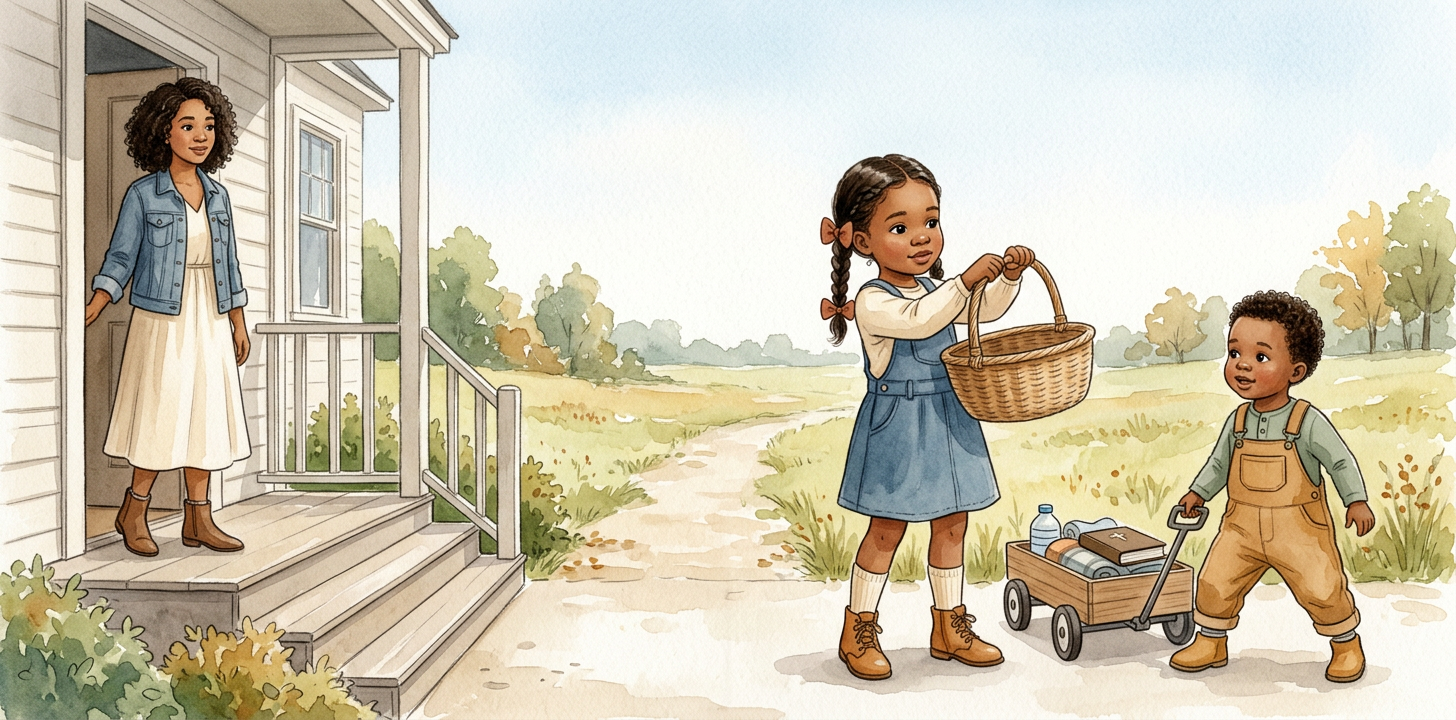
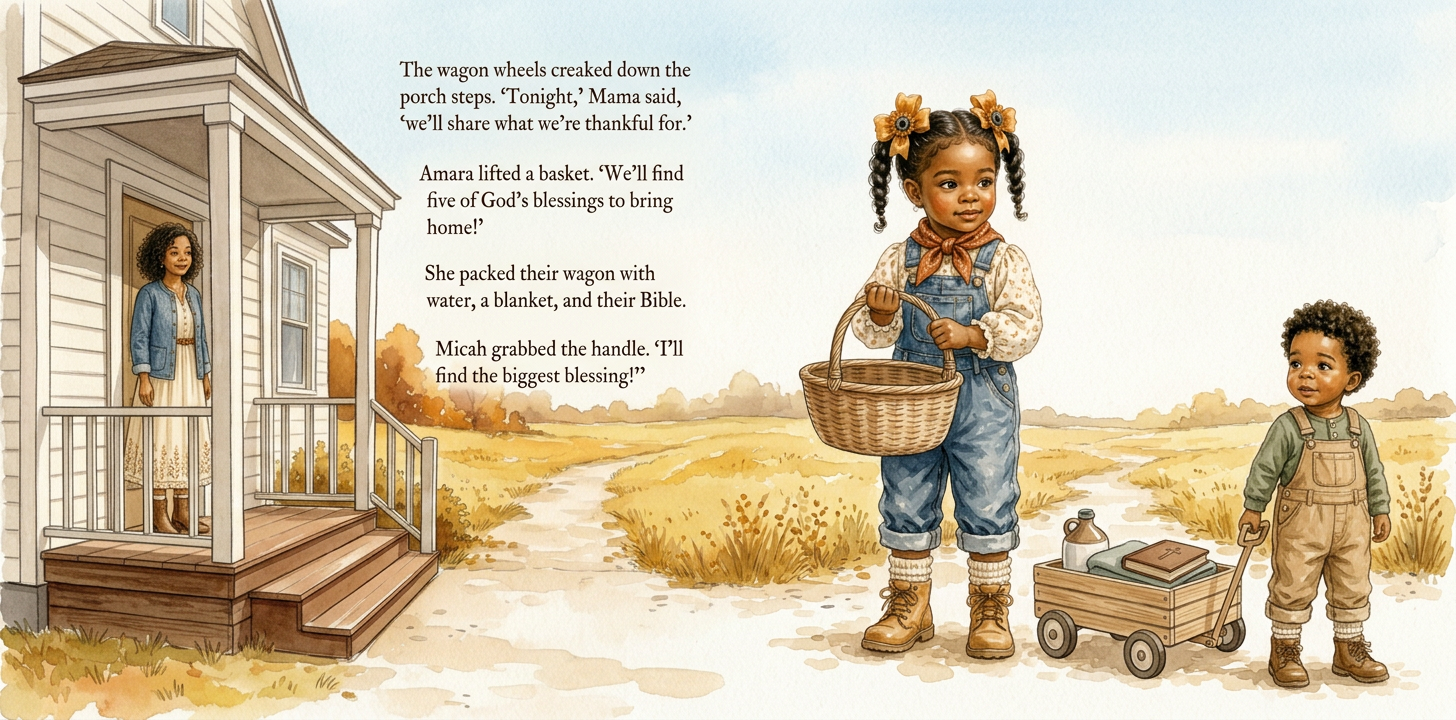
Approve Unit 1 + Unit 12 legacy spreads with integrated verbatim text
- Both spreads QA-passed: character-for-character text match to adapter
- Legacy look locked in renders (sunflower bows + bandana, no scarf on Micah)
- Canon kit sheets added; canon decisions recorded
- Porch matches house sheet; wagon/props match canon (jug, sage blanket, cross Bible)

diff --git a/CATALOG.md b/CATALOG.md
@@ -1,7 +1,9 @@
 # Asset Catalog
 
-18 unique images. All watercolor-on-cream storybook style, warm autumn palette.
-Two exact duplicates were removed (verified by file hash).
+18 character/collection images + 3 canon sheets. All watercolor-on-cream storybook
+style, warm autumn palette. Two exact duplicates were removed (verified by file hash).
+
+Locked decisions: legacy look + integrated text — see `docs/canon-decisions.md`.
 
 ## Amara (`assets/amara/`)
 
@@ -19,8 +21,8 @@ Two exact duplicates were removed (verified by file hash).
 | File | Size | Was | Description |
 |---|---|---|---|
 | `micah-01-turnaround-bucket.png` | 1402×1122 | `A003 …` | 4-view turnaround + face closeup, wooden bucket |
-| `micah-02-face-closeup-scarf.png` | 1122×1402 | `A006 …` | Face closeup, cream knit scarf |
-| `micah-03-fullbody-scarf.png` | 1122×1402 | `A007 …` | Full-body, rust overalls, cream scarf |
+| `micah-02-face-closeup-scarf.png` | 1122×1402 | `A006 …` | Face closeup (legacy scarf study — scarf NOT canon) |
+| `micah-03-fullbody-scarf.png` | 1122×1402 | `A007 …` | Full-body (legacy scarf study — scarf NOT canon) |
 | `micah-scripture-philippians-4-13.png` | 1122×1402 | `… Jul 19 …07_30_24 …` | "I can do all things through Christ" print |
 
 ## Mama (`assets/mama/`)
@@ -46,6 +48,14 @@ Two exact duplicates were removed (verified by file hash).
 | `assets/family/family-lineup.png` | 1681×935 | `… 06_13_15 …` | Papa / Mama / Amara / Micah scale lineup |
 | `assets/collection/title-gathering-meadow-treasures.jpg` | 2400×1792 | `Siblings_gathering…jpeg` | Collection title art, fence + meadow |
 
+## Canon kit (`assets/canon/`) — generated + QA'd this repo
+
+| File | Locks |
+|---|---|
+| `house-porch-sheet.png` | White farmhouse, covered porch, simple rail, EXACTLY 3 steps |
+| `wagon-sheet.png` | Light-wood wagon, 4 dark wheels; jug + sage blanket + cross Bible |
+| `prop-sheet.png` | Oval woven basket, brown cross Bible, sage blanket, water jug |
+
 ## Removed duplicates
 
 - `ChatGPT Image Aug 7, 2026, 06_15_15 PM (1).png` — identical to `A004` → kept Amara-01
@@ -54,23 +64,24 @@ Two exact duplicates were removed (verified by file hash).
 ## Docs
 
 - `docs/golden-leaf-chatgpt-adapter-15-units.md` — 15-unit prompt package (authoritative text + scenes)
+- `docs/canon-decisions.md` — locked canon: legacy look, integrated text, prop continuity
 
-## Book-unit checklist (`book/`)
+## Book-unit checklist (`book/`, TEXT MODE A)
 
 | Unit | Pages | Scene | Status |
 |---|---|---|---|
-| 1 | 4–5 | Porch send-off, pack wagon | ✅ sample |
-| 2 | 6–7 | Golden leaf catch | ⬜ |
-| 3 | 8–9 | Acorns for the squirrel | ⬜ |
-| 4 | 10–11 | Path walk, one leaf left | ⬜ |
-| 5 | 12–13 | Feather for the bird | ⬜ |
-| 6 | 14–15 | Flowers for bees/butterflies | ⬜ |
-| 7 | 16–17 | Bumpy path, cry in grass | ⬜ |
-| 8 | 18–19 | Care for the lamb | ⬜ |
-| 9 | 20–21 | Bible rest under the oak | ⬜ |
-| 10 | 22–23 | Creek-side worry | ⬜ |
-| 11 | 24–25 | WHOOSH — leaf blows away | ⬜ |
-| 12 | 26–27 | Ant bridge reveal | ✅ sample |
-| 13 | 28–29 | Counting + prayer | ⬜ |
-| 14 | 30–31 | Golden-hour return / supper | ⬜ |
-| 15 | 32 | Retelling (solo 1:1 page) | ⬜ |
+| 1 | 4–5 | Porch send-off, pack wagon | ✅ approved (legacy + verbatim text) |
+| 2 | 6–7 | Golden leaf catch | ⬜ next (pilot) |
+| 3 | 8–9 | Acorns for the squirrel | ⬜ next (pilot) |
+| 4 | 10–11 | Path walk, one leaf left | ⬜ batch |
+| 5 | 12–13 | Feather for the bird | ⬜ batch |
+| 6 | 14–15 | Flowers for bees/butterflies | ⬜ batch |
+| 7 | 16–17 | Bumpy path, cry in grass | ⬜ batch |
+| 8 | 18–19 | Care for the lamb | ⬜ batch |
+| 9 | 20–21 | Bible rest under the oak | ⬜ batch |
+| 10 | 22–23 | Creek-side worry | ⬜ batch |
+| 11 | 24–25 | WHOOSH — leaf blows away | ⬜ batch |
+| 12 | 26–27 | Ant bridge reveal | ✅ approved (legacy + verbatim text) |
+| 13 | 28–29 | Counting + prayer | ⬜ batch |
+| 14 | 30–31 | Golden-hour return / supper | ⬜ batch |
+| 15 | 32 | Retelling (solo 1:1 page) | ⬜ batch |

diff --git a/README.md b/README.md
@@ -6,34 +6,38 @@ Picture-book project: **"The Golden Leaf of Harvest Meadow"** — Amara (~5) & M
 ## Folder structure
 
 ```
-assets/                  Character reference & collection art (canon look)
+assets/                  Reference art (attached to every generation)
   amara/                 Amara sheets: front, closeup, back, profiles, scripture print
   micah/                 Micah sheets: turnaround, closeups, full-body, scripture print
   mama/                  Mama turnaround, expression sheet, hero full-body
   papa/                  Papa turnaround, expression sheet, hero full-body
   family/                Full-family lineup / scale chart
   collection/            Collection title art
-book/                    Generated book spreads (Units 1–15) — TEXT MODE B (no text)
-docs/                    Production docs (adapter sheet with all 15 prompts + full text)
+  canon/                 Setting/prop lock: house-porch, wagon, props
+book/                    Generated book spreads (Units 1–15), TEXT MODE A (integrated text)
+docs/                    Production docs: adapter, canon decisions
 CATALOG.md               Full asset inventory + book-unit checklist
 ```
 
 ## How book images are made here
 
-Yes — we generate them in this repo with the image tool, using:
+Every spread is generated with visual anchors (not words alone):
 
-1. **References** from `assets/` (faces, skin tones, watercolor style).
-2. **Prompts** from `docs/golden-leaf-chatgpt-adapter-15-units.md` (scene, continuity, exclusions).
-3. **TEXT MODE B** — illustrations are generated *without* text (avoids paraphrase/garbled-letter
-   risk); the exact manuscript text is typeset separately in layout.
+1. **References** from `assets/` — character faces/outfits + `assets/canon/` sheets
+   (house = exactly 3 steps, wagon build, basket/Bible/blanket/jug).
+2. **Prompts** from `docs/golden-leaf-chatgpt-adapter-15-units.md` + legacy character
+   block in `docs/canon-decisions.md`.
+3. **TEXT MODE A** — story text rendered in the illustration, then QA'd
+   character-for-character; failures regenerate (max 2x) before fallback.
 
-Art direction follows the adapter canon: small muted-rust bows low near Amara's ears
-(no sunflower bows), no bandana/neckerchief/scarf, no jewelry. Legacy reference art in
-`assets/` still shows the older accessories — it is kept for face/style consistency only.
+Locked look = **legacy**: sunflower bows + rust bandana on Amara; no scarf on Micah.
+See `docs/canon-decisions.md`.
 
 ## Status
 
 - [x] Assets organized, duplicates removed, cataloged
-- [x] Sample spreads: Unit 1, Unit 12
-- [ ] Remaining spreads: Units 2–11, 13–15
-- [ ] Layout with typeset text (preview + print)
+- [x] Canon kit: house, wagon, prop sheets
+- [x] Canon locked: legacy look + integrated text
+- [ ] Pilot spreads: Units 1–3 (1, 12 approved; 2, 3 next)
+- [ ] Batch: Units 4–15
+- [ ] Final QA + print layout

diff --git a/docs/canon-decisions.md b/docs/canon-decisions.md
@@ -1,0 +1,48 @@
+# Locked Canon Decisions (2026-09-18)
+
+Decisions made with the author. These override the adapter sheet where they conflict.
+
+## 1. Character look: LEGACY (not the adapter's tightened canon)
+
+- **Amara:** large golden-orange sunflower bows (one at the top of each braid),
+  rust-terracotta bandana neckerchief, blue denim overalls over a cream floral-print
+  blouse with puff sleeves, cream socks, tan lace-up boots. Tiny stud earrings OK.
+- **Micah:** NO scarf, NO bandana. Warm-tan bib overalls over a muted-sage
+  long-sleeve shirt, cream socks, tan boots, short curly coils.
+- **Mama:** cream midi dress + denim jacket + brown boots (unchanged).
+- **Papa:** cardigan + suspenders look per turnaround (unchanged).
+- Age hierarchy is non-negotiable: Amara must always read clearly older/taller.
+
+Reference anchors: `assets/amara/amara-01-*`, `assets/micah/micah-01-*`,
+`assets/family/family-lineup.png`, plus the author's Unit 2 ChatGPT sample (shared in
+chat; verified verbatim-correct text, legacy outfits).
+
+## 2. Text: INTEGRATED (TEXT MODE A)
+
+- Story text is rendered inside the illustration, elegant dark-brown serif, clean
+  block in open background space.
+- QA rule: character-for-character match to `docs/golden-leaf-chatgpt-adapter-15-units.md`.
+  Regenerate up to 2x on any text error; after that, fall back to a textless render +
+  typeset text for that unit and flag it.
+
+## 3. Setting & prop canon (`assets/canon/`)
+
+- **House:** white siding, covered porch, simple rail, **EXACTLY THREE wooden steps**,
+  tan door, window. No church/chapel anywhere in the book.
+- **Wagon:** small light-wood pull wagon, four dark wheels, pull handle. Packed with:
+  - Water: **ceramic jug** (NOT the plastic bottle from the first Unit 1 draft)
+  - Blanket: **folded sage-grey blanket**
+  - Bible: **closed brown cover with small cross**, never any readable words
+- **Basket:** oval woven basket with handle. Contents tracked per unit:
+  1 empty → 2 one leaf → 3 leaf only → 4 leaf only → 5–10 leaf only →
+  11 leaf blows away, empty → 12–13 accepted empty → 14–15 empty.
+- **People per unit:** only who the script calls for (e.g. no Mama in Unit 2 meadow).
+
+## 4. Workflow (per author's Plan of Execution)
+
+1. Lock canon ✅ (this file)
+2. Master prompt template ✅ (character block + style + exclusions + text rule)
+3. Continuity map ✅ (adapter + basket tracker above)
+4. Pilot Units 1–3 → approve → batch 4–15
+5. QA every spread: text verbatim, age hierarchy, props, step count, lighting arc
+   (clear morning → midday → afternoon → golden-hour return).
